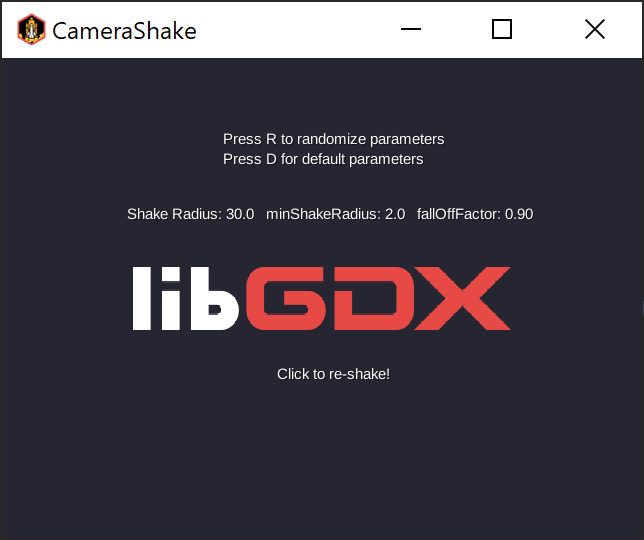
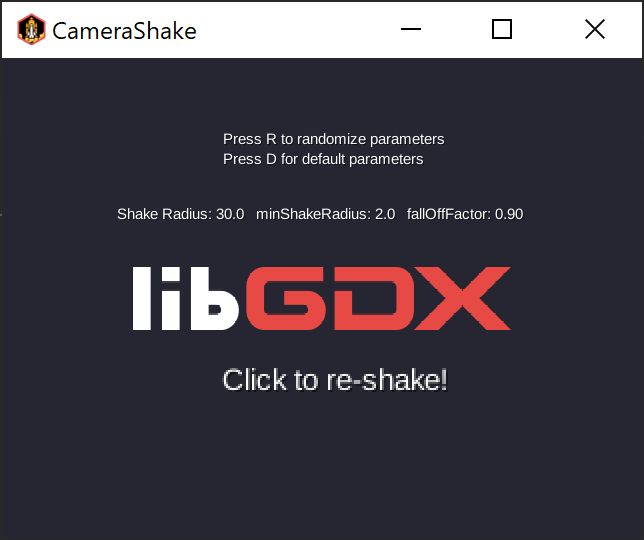
Initial commit.

Changed region(s): [[0.3416, 0.6815, 0.7143, 0.7407], [0.1863, 0.3852, 0.8385, 0.4148], [0.9938, 0.563, 1.0, 0.5926]]

diff --git a/core/src/main/java/com/antz/camera/CameraShake.java b/core/src/main/java/com/antz/camera/CameraShake.java
@@ -69,9 +69,12 @@ public class CameraShake extends ApplicationAdapter {
 	private void drawUI(){
 		batch.begin();
 		batch.draw(image, -image.getWidth()/2f, -image.getHeight()/2f);
-		font.draw(batch, "Click to re-shake!", -45f,-70f);
-		font.draw(batch, Stringf.format("Shake Radius: %.1f",shakeRadius) + Stringf.format("   minShakeRadius: %.1f", minimumShakeRadius) + Stringf.format("   fallOffFactor: %.2f",radiusFallOffFactor), -195f,+90f);
 
+		font.getData().setScale(2f);
+		font.draw(batch, "Click to re-shake!", -100f,-70f);
+		font.getData().setScale(1f);
+
+		font.draw(batch, Stringf.format("Shake Radius: %.1f",shakeRadius) + Stringf.format("   minShakeRadius: %.1f", minimumShakeRadius) + Stringf.format("   fallOffFactor: %.2f",radiusFallOffFactor), -205f,+90f);
 		// Only show if desktop or html
 		if (!(Gdx.app.getType().equals(Application.ApplicationType.iOS) || Gdx.app.getType().equals(Application.ApplicationType.Android))) {
 			font.draw(batch, "Press R to randomize parameters", -98, 165);
